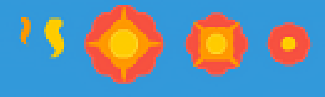
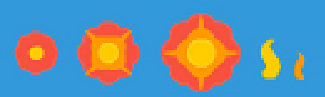
add particle system

diff --git a/HAPI_APP/src/BattleUI.cpp b/HAPI_APP/src/BattleUI.cpp
@@ -52,7 +52,9 @@ BattleUI::BattleUI(Battle & battle)
 	m_invalidPosition(),
 	m_leftMouseDownPosition({0, 0}),
 	m_isMovingEntity(false),
-	m_mouseDownTile(nullptr)
+	m_mouseDownTile(nullptr),
+	m_explosion(0.2, Textures::m_explosion)
+	
 {}
 
 std::pair<int, int> BattleUI::getCameraPositionOffset() const
@@ -77,10 +79,17 @@ void BattleUI::renderUI() const
 	case BattlePhase::Attack:
 		m_selectedTile.render(m_battle.getMap());
 		m_targetArea.render(m_battle.getMap());
+		
 		break;
 	}
 
 	m_invalidPosition.render(m_battle.getMap());
+	
+}
+
+void BattleUI::renderParticles() const
+{
+	m_explosion.render();
 }
 
 void BattleUI::renderGUI() const
@@ -88,9 +97,10 @@ void BattleUI::renderGUI() const
 	m_gui.render();
 }
 
-void BattleUI::update()
+void BattleUI::update(float deltaTime)
 {
 	m_gui.update(m_battle.getMap().getWindDirection());// added update for gui to receive wind direction so compass direction updates
+	m_explosion.run(deltaTime, m_battle.getMap());
 }
 
 void BattleUI::FactionUpdateGUI(FactionName faction)
@@ -466,6 +476,8 @@ void BattleUI::onLeftClickAttackPhase()
 	//Entity already selected Fire weapon at position
 	if (m_selectedTile.m_tile && m_selectedTile.m_tile->m_entityOnTile && !m_selectedTile.m_tile->m_entityOnTile->m_battleProperties.isWeaponFired())
 	{
+		m_explosion.setPosition(tileOnMouse->m_entityOnTile->m_battleProperties.getCurrentPosition());
+		m_explosion.m_isEmitting = true;
 		m_battle.fireEntityWeaponAtPosition(*m_selectedTile.m_tile->m_entityOnTile, *tileOnMouse, m_targetArea.m_targetArea);
 
 		//TODO: Might change this
@@ -818,5 +830,58 @@ void BattleUI::CurrentSelectedTile::render(const Map & map) const
 		static_cast<float>(tileTransform.second + DRAW_ENTITY_OFFSET_Y * map.getDrawScale()) });
 
 		m_sprite->Render(SCREEN_SURFACE);
+	}
+}
+
+BattleUI::ParticleSystem::ParticleSystem(float lifespan, std::shared_ptr<HAPISPACE::SpriteSheet> texture) :
+	m_position(),
+	m_lifeSpan(lifespan),
+	m_particle(HAPI_Sprites.MakeSprite(texture)),
+	m_frameNum(0),
+	m_isEmitting(false)
+{
+	m_particle->SetFrameNumber(m_frameNum);
+}
+
+void BattleUI::ParticleSystem::setPosition(std::pair<int, int> position)
+{
+	m_position = position;
+}
+
+void BattleUI::ParticleSystem::run(float deltaTime, const Map& map) 
+{
+
+	if (m_isEmitting)
+	{
+		const std::pair<int, int> tileTransform = map.getTileScreenPos(m_position);
+		m_particle->GetTransformComp().SetPosition({
+			tileTransform.first + DRAW_ENTITY_OFFSET_X * map.getDrawScale(),
+			tileTransform.second + DRAW_ENTITY_OFFSET_Y * map.getDrawScale() });
+
+		m_lifeSpan.update(deltaTime);
+
+		if (m_lifeSpan.isExpired())
+		{
+			m_particle->SetFrameNumber(m_frameNum);
+			
+			m_lifeSpan.reset();
+			++m_frameNum;
+		}
+
+		if (m_frameNum >= m_particle->GetNumFrames())
+		{
+			m_isEmitting = false;
+			m_frameNum = 0;
+		}
+	}
+
+}
+
+void BattleUI::ParticleSystem::render()const 
+{
+	if (m_isEmitting)
+	{
+		m_particle->GetTransformComp().SetOriginToCentreOfFrame();
+		m_particle->Render(SCREEN_SURFACE);
 	}
 }

diff --git a/HAPI_APP/src/BattleUI.h b/HAPI_APP/src/BattleUI.h
@@ -3,11 +3,15 @@
 #include "BattleGUI.h"
 #include "entity.h"
 #include <vector>
-
+#include "Timer.h"
 struct EntityProperties;
 struct Tile;
 class Battle;
 class Map;
+
+
+
+
 class BattleUI : public IHapiSpritesInputListener
 {
 	struct TargetArea
@@ -39,6 +43,21 @@ class BattleUI : public IHapiSpritesInputListener
 		std::unique_ptr<Sprite> m_sprite;
 		bool m_activate;
 		std::pair<int, int> m_position;
+	};
+
+	struct ParticleSystem
+	{
+		std::pair<float, float> m_position;
+		Timer m_lifeSpan;
+		std::unique_ptr<HAPISPACE::Sprite> m_particle;
+		int m_frameNum = 0;
+		bool m_isEmitting;
+
+		ParticleSystem(float lifespan, std::shared_ptr<HAPISPACE::SpriteSheet> texture);
+		void setPosition(std::pair<int, int> position);
+		void run(float deltaTime, const Map& map);
+		void render() const;
+		
 	};
 
 	class ShipPlacementPhase
@@ -88,8 +107,9 @@ public:
 	std::pair<int, int> getCameraPositionOffset() const;
 
 	void renderUI() const;
+	void renderParticles() const;
 	void renderGUI() const;
-	void update();
+	void update(float deltaTime);
 	void FactionUpdateGUI(FactionName faction);//tempName
 	void newPhase();
 	void newTurn(FactionName playersTurn);
@@ -123,4 +143,5 @@ private:
 	void onRightClickAttackPhase();
 	void onMouseMoveAttackPhase();
 	TargetArea m_targetArea;
+	ParticleSystem m_explosion;
 };

diff --git a/HAPI_APP/src/Battle.cpp b/HAPI_APP/src/Battle.cpp
@@ -50,7 +50,6 @@ Battle::Battle(std::vector<std::pair<FactionName, std::vector<EntityProperties*>
 void Battle::render() const
 {
 	m_map.drawMap();
-	
 	m_battleUI.renderUI();
 
 	for (auto& player : m_players)
@@ -61,14 +60,15 @@ void Battle::render() const
 			
 		}
 	}
-
+	
+	m_battleUI.renderParticles();
 	m_battleUI.renderGUI();
 }
 
 void Battle::update(float deltaTime)
 {
 	m_battleUI.setCurrentFaction(getCurentFaction());
-	m_battleUI.update();
+	m_battleUI.update(deltaTime);
 	m_map.setDrawOffset(m_battleUI.getCameraPositionOffset());
 
 	setTimeOfDay(deltaTime);
@@ -115,6 +115,7 @@ void Battle::fireEntityWeaponAtPosition(BattleEntity& player, const Tile& tileOn
 		if (cIter != targetArea.cend())
 		{
 			auto& enemy = tileOnAttackPosition.m_entityOnTile;
+
 			enemy->m_battleProperties.takeDamage(enemy->m_entityProperties, player.m_entityProperties.m_damage, enemy->m_factionName);
 		}
 	}

diff --git a/HAPI_APP/src/Textures.h b/HAPI_APP/src/Textures.h
@@ -299,6 +299,13 @@ struct Textures
 			HAPI_Sprites.UserMessage("Connot Load: 'shipYellowSnipe.xml'", "Texture Error");
 			return false;
 		}
+
+		m_explosion = HAPI_Wrapper::loadSpriteSheet("explosion.xml");
+		if (!m_explosion)
+		{
+			HAPI_Sprites.UserMessage("Connot Load: 'explosion.xml'", "Texture Error");
+			return false;
+		}
 		return true;
 	}
 
@@ -345,4 +352,5 @@ struct Textures
 	static std::shared_ptr<SpriteSheet> m_yellowShipBomb;
 	static std::shared_ptr<SpriteSheet> m_yellowShipMelee;
 	static std::shared_ptr<SpriteSheet> m_yellowShipSnipe;
+	static std::shared_ptr<SpriteSheet> m_explosion;
 };

diff --git a/HAPI_APP/src/Textures.cpp b/HAPI_APP/src/Textures.cpp
@@ -45,3 +45,5 @@ std::shared_ptr<SpriteSheet> Textures::m_yellowShipSideCannons;
 std::shared_ptr<SpriteSheet> Textures::m_yellowShipBomb;
 std::shared_ptr<SpriteSheet> Textures::m_yellowShipMelee;
 std::shared_ptr<SpriteSheet> Textures::m_yellowShipSnipe;
+
+std::shared_ptr<SpriteSheet> Textures::m_explosion;
